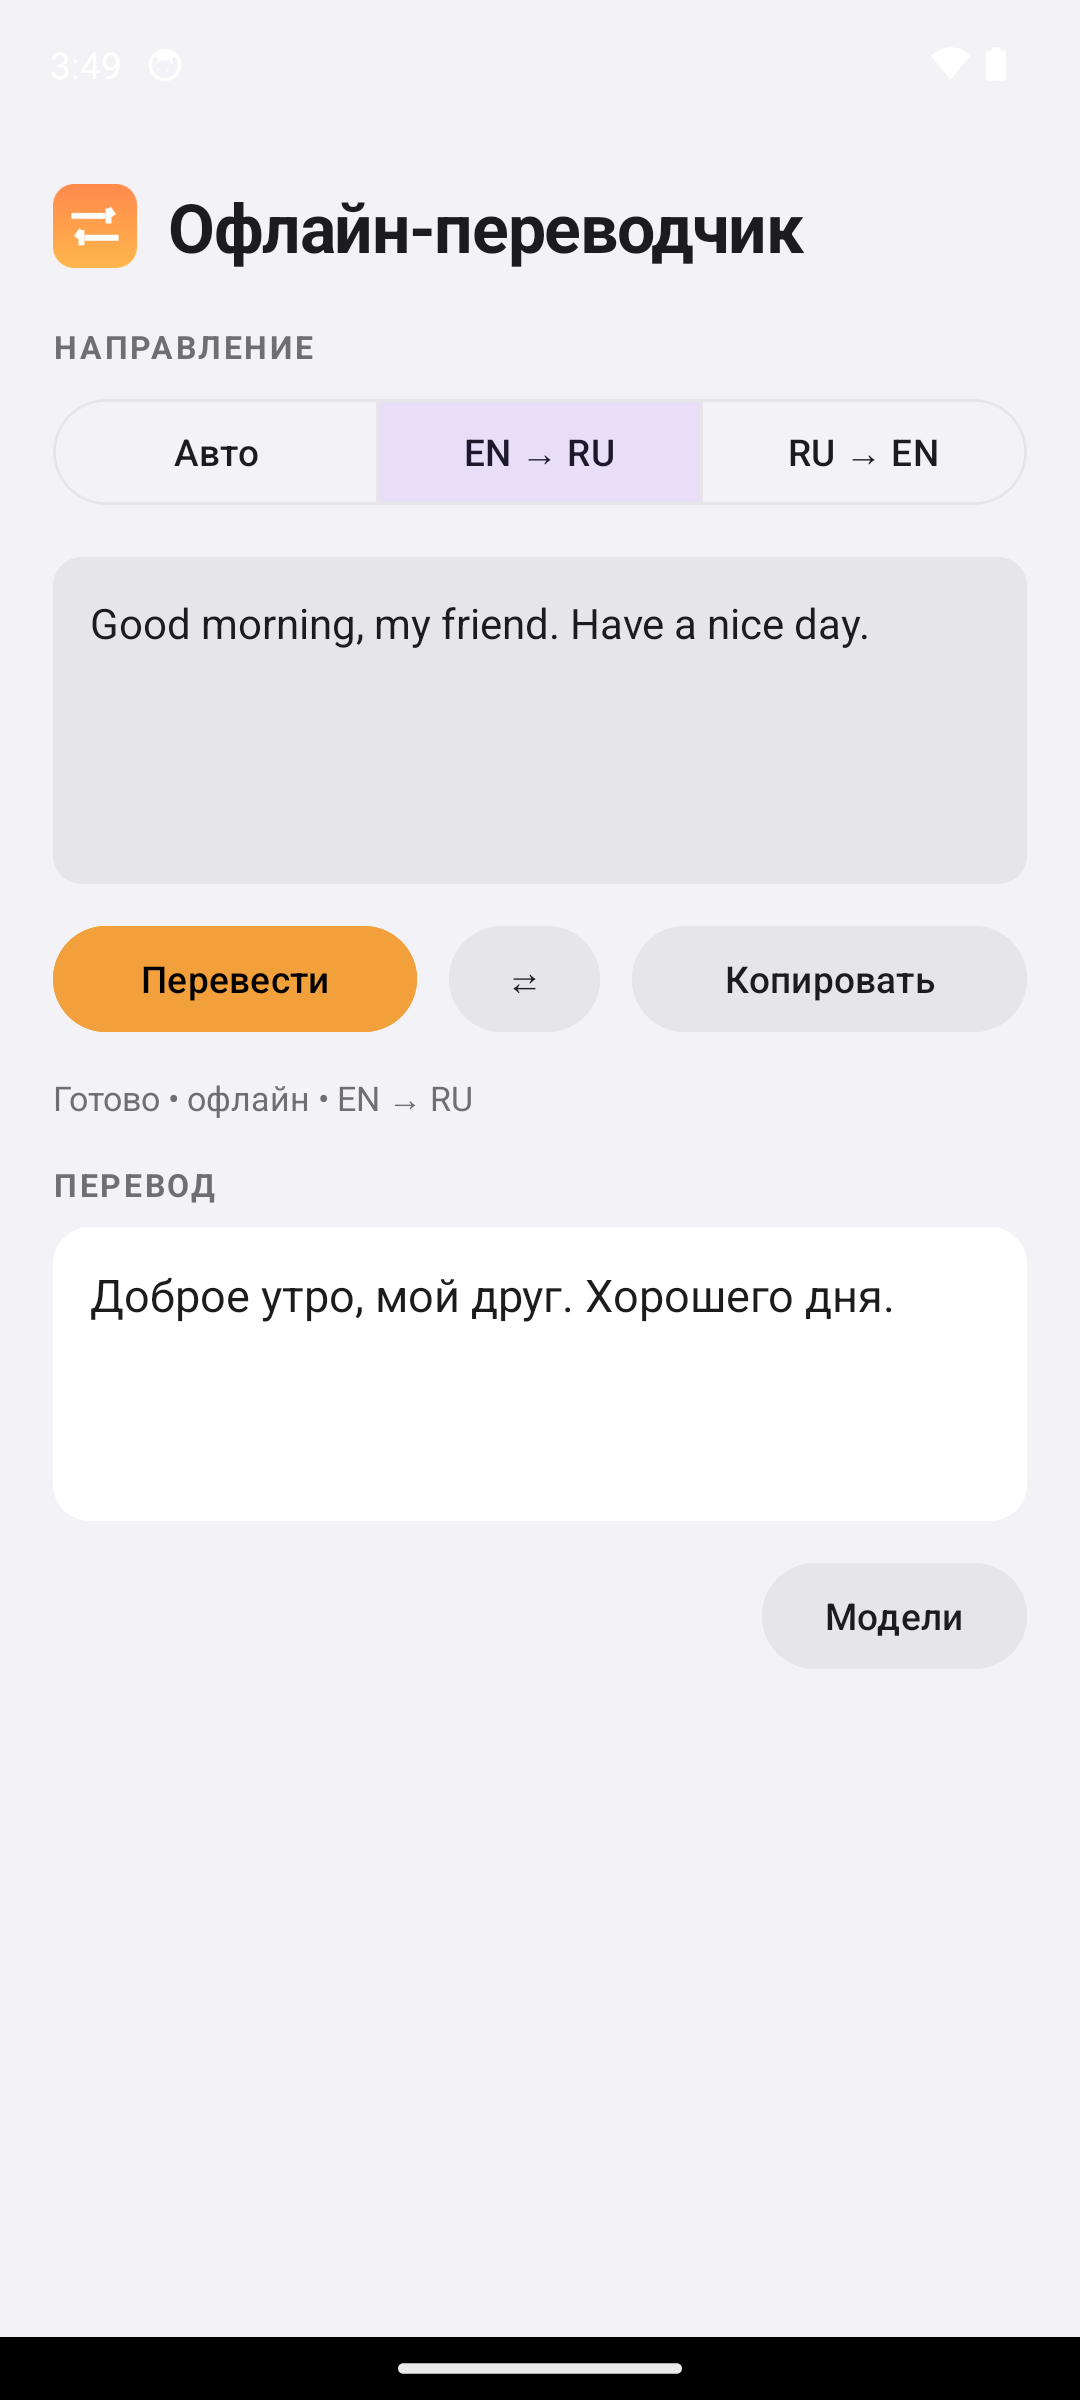
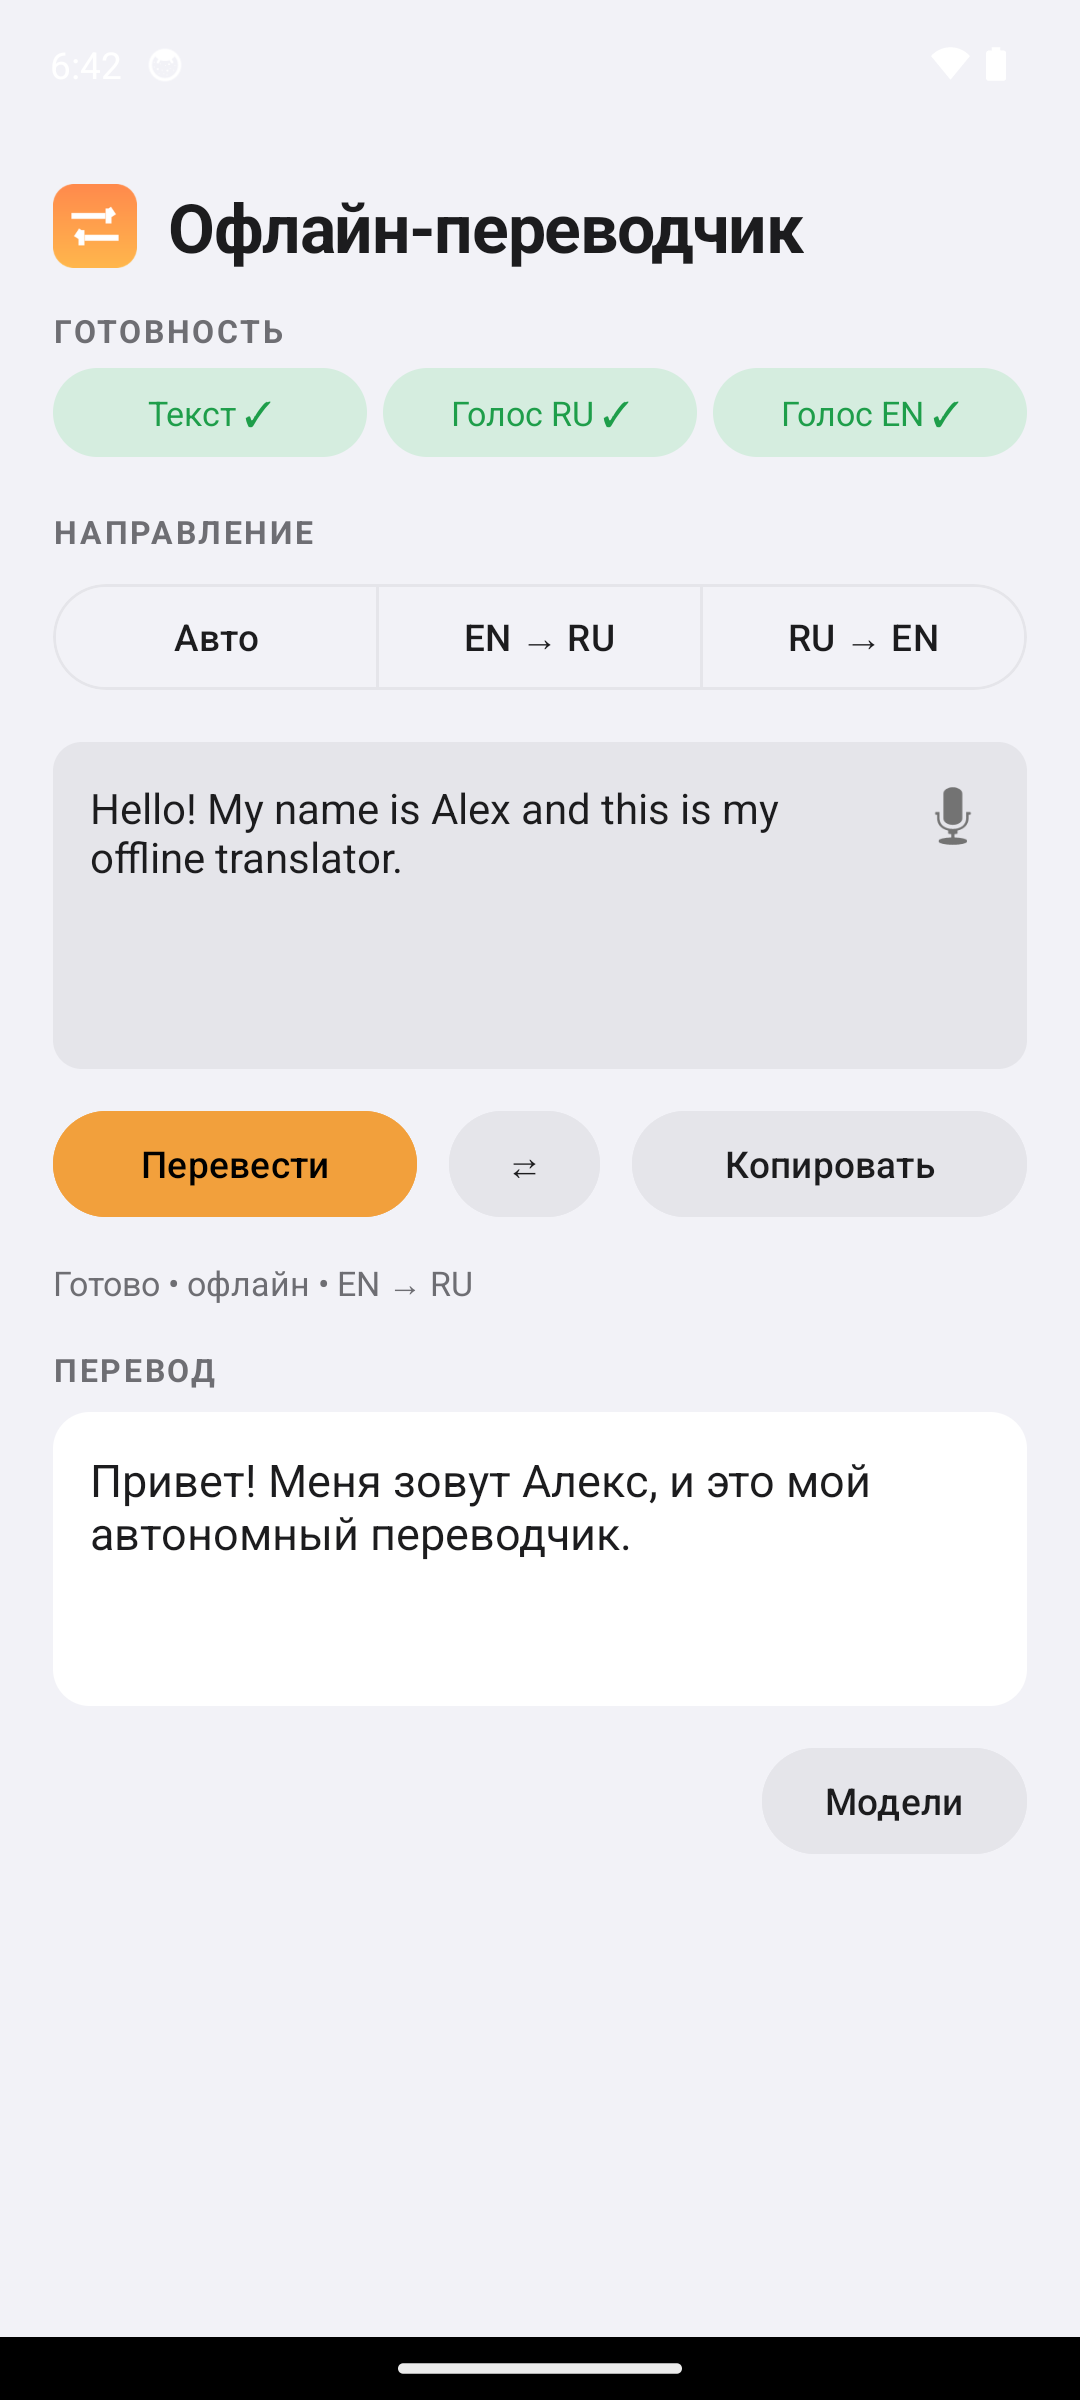
Store kit update: v1.2.x screenshots (readiness chips, mic), RuStore listing with voice features

diff --git a/docs/store/rustore-listing.md b/docs/store/rustore-listing.md
@@ -1,55 +1,66 @@
-# Листинг для RuStore (Android-версия)
+# Листинг для RuStore (Android-версия 1.2.x)
 
 ## Название (до 30 символов)
 Офлайн-переводчик EN⇄RU
 
 ## Краткое описание (до 80 символов)
-Нейросетевой перевод английский⇄русский без интернета. Быстро, приватно, локально.
+Нейросетевой перевод EN⇄RU и голосом — всё офлайн, на устройстве, без интернета.
 
 ## Полное описание (до 4000 символов)
 
-Офлайн-переводчик — нейросетевой переводчик с английского на русский и обратно,
-который работает БЕЗ ИНТЕРНЕТА.
+Офлайн-переводчик — переводит текст И ГОЛОС с английского на русский и обратно,
+полностью БЕЗ ИНТЕРНЕТА.
 
-Как это работает: при первом запуске приложение один раз скачивает модели перевода
-(нужен интернет), после чего весь перевод выполняется прямо на вашем устройстве.
-Ни один текст не покидает телефон — приватность максимальна.
+Как это работает: при первом использовании приложение один раз скачивает модели
+(нужен интернет), дальше весь перевод и распознавание речи выполняются прямо на
+вашем устройстве. Ни один текст и ни один звук не покидают телефон.
 
 ВОЗМОЖНОСТИ
-• Полностью офлайн-перевод EN⇄RU — в самолёте, в роуминге, на даче, где угодно
-• Перевод выполняется нейросетью на устройстве, без отправки текстов в сеть
-• Копирование результата в буфер обмена одним нажатием
+• Печатайте или ГОВОРИТЕ — микрофон прямо в поле ввода
+• Офлайн-перевод EN⇄RU: самолёт, роуминг, дача — интернет не нужен
+• Индикаторы готовности: видно, что уже скачано (текст / голос RU / голос EN),
+  а что нужно докачать — одним нажатием
 • Автоопределение языка: кириллица — на английский, латиница — на русский
-• Тёмная и светлая темы, следуют системным настройкам
+• Диктовка с паузами: фразы добавляются к тексту, ничего не стирается
+• «Поделиться → Офлайн-переводчик» из браузера и мессенджеров
+• Копирование перевода в буфер одним нажатием
+• Тёмная и светлая темы следуют системным настройкам
 • Никакой рекламы, подписок и сбора данных
 
 ДЛЯ КОГО
 • Переписка с иностранными коллегами и друзьями
 • Чтение инструкций, документации, статей на английском
 • Путешествия и роуминг
-• Все, кому важна приватность переписки
+• Все, кому важна приватность переписки и голосовых заметок
 
 ПРИВАТНОСТЬ
-Приложение не собирает и не передаёт никаких данных: ни тексты, ни аналитику,
-ни персональную информацию. Политика конфиденциальности — на странице приложения.
+Приложение не собирает и не передаёт никаких данных: ни тексты, ни речь,
+ни аналитику. Распознавание речи работает на устройстве. Политика
+конфиденциальности — на странице приложения.
 
 СИСТЕМНЫЕ ТРЕБОВАНИЯ
-Android 7.0 и выше. После разовой загрузки моделей (~60 МБ) интернет не требуется.
+Android 7.0 и выше. После разовой загрузки моделей (~150 МБ суммарно на текст
+и голос) интернет не требуется.
 
-## Что нового (версия 1.0.0)
-• Первый релиз: офлайн-перевод EN⇄RU, копирование в буфер, автоопределение языка,
-  тёмная/светлая темы.
+## Что нового (версия 1.2.1)
+• Голосовой ввод офлайн: говорите по-русски или по-английски — распознаётся
+  на устройстве и переводится
+• Индикаторы готовности: видно, какие модели скачаны
+• Диктовка с паузами: фразы добавляются, контекст не теряется
+• Дизайн в единой системе «на чёрном» с тёплым янтарным акцентом
 
 ## Категория
 Инструменты
 
 ## Теги
-переводчик, офлайн, без интернета, английский, русский, нейросеть
+переводчик, офлайн, без интернета, голосовой ввод, распознавание речи,
+английский, русский, нейросеть
 
 ## Ссылки
 - Политика конфиденциальности: https://voodoobroodoo.github.io/offline-translator/privacy-policy.html
 - Поддержка: https://github.com/Voodoobroodoo/offline-translator/issues
 
-## Материалы
-- Иконка 512×512 (сделать из логотипа приложения)
-- Скриншоты: 2–4 шт. (главный экран с переводом; скачивание моделей; тёмная тема)
+## Материалы (в папке docs\store\screenshots\)
+- Иконка 512×512: icon-512.png
+- Скриншоты: 1-light-translate.png (светлая, перевод), 2-dark-translate.png (тёмная)
+- APK: release\android\Переводчик-Android-1.2.1.apk
